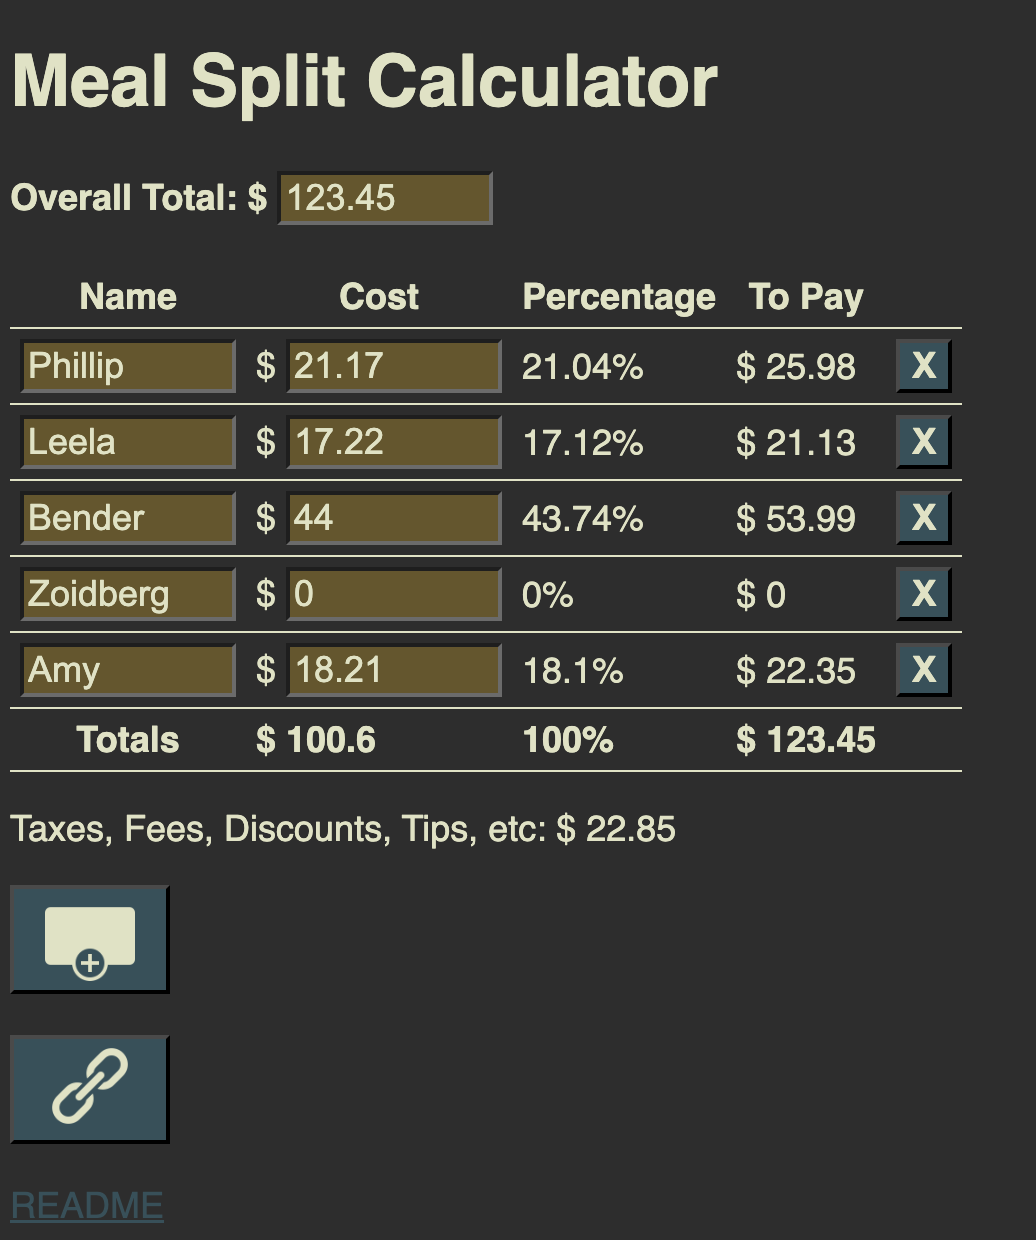
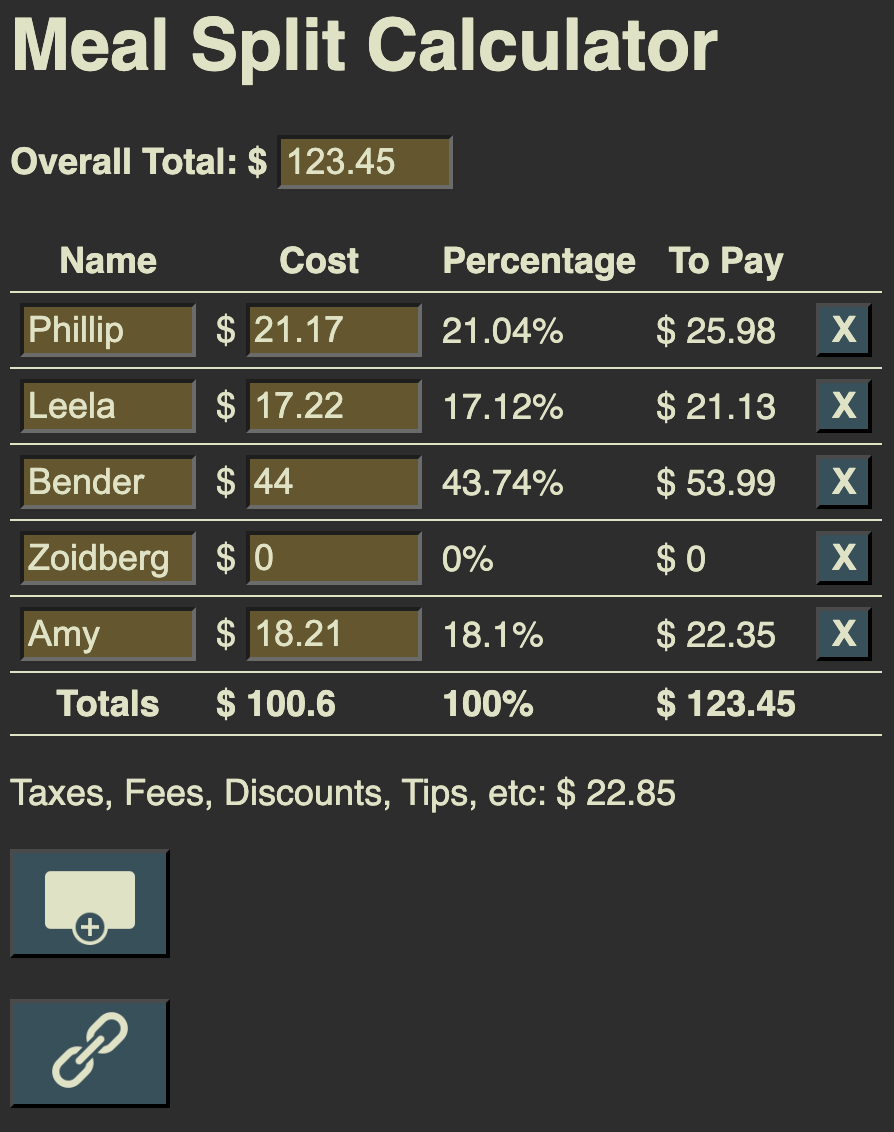
Better support for mobile devices

Changed region(s): [[0.0, 0.2164, 0.9966, 0.9894], [0.0, 0.0, 0.8154, 0.0928], [0.0, 0.1237, 0.5134, 0.1855]]

diff --git a/MealSplitCalculator.html b/MealSplitCalculator.html
@@ -2,6 +2,7 @@
 <html lang="en">
 <head>
     <meta charset="UTF-8">
+    <meta name="viewport" content="width=device-width, initial-scale=1.0">
     <title>Meal Split Calculator</title>
     <link rel="stylesheet" href="styles.css"/>
     <!-- Icon from https://icons8.com/icon/84779/estimate with -->
@@ -102,11 +103,11 @@
         rowCounter = rowCounter + 1;
         const rowContent = `
             <tr>
-                <td><input type="text" id="${nameId}" name="${nameId}" class="inputTextField"></td>
-                <td>$ <input type="number" id="${costId}" name="${costId}" step="0.01" class="inputTextField"></td>
-                <td></td>
-                <td></td>
-                <td><button id="${removeRowButtonId}" class="removeRowButton">X</button></td>
+                <td nowrap><input type="text" id="${nameId}" name="${nameId}" class="inputTextField"></td>
+                <td nowrap>$ <input type="number" id="${costId}" name="${costId}" step="0.01" class="inputTextField"></td>
+                <td nowrap></td>
+                <td nowrap></td>
+                <td nowrap><button id="${removeRowButtonId}" class="removeRowButton">X</button></td>
             </>tr>
         `
         $("#mainTable tbody").append(rowContent);

diff --git a/styles.css b/styles.css
@@ -15,7 +15,7 @@ table, th, td {
   background: #735F32;
   color: #E5E5CB;
   font-size: 18px;
-  width: 100px;
+  width: 80px;
 }
 
 .addRowButton {

diff --git a/README.md b/README.md
@@ -15,10 +15,12 @@ the shared expenses.
 
 Here's an example to better illustrate things:
 
-<img src="screenshot.png" width="50%" />
+<img src="screenshot.png" width="40%" />
 
 You can play with it live [here](MealSplitCalculator.html?total=123.45&row=Phillip%7C21.17&row=Leela%7C17.22&row=Bender%7C44&row=Zoidberg%7C0&row=Amy%7C18.21)
 or [here on GitHub Pages](https://rkanter.github.io/MealSplitCalculator/MealSplitCalculator.html?total=123.45&row=Phillip%7C21.17&row=Leela%7C17.22&row=Bender%7C44&row=Zoidberg%7C0&row=Amy%7C18.21).
+
+Also works great on mobile devices!
 
 ### How to Use:
 1. Enter the total cost of the meal in the "Overall Total" box at the top
